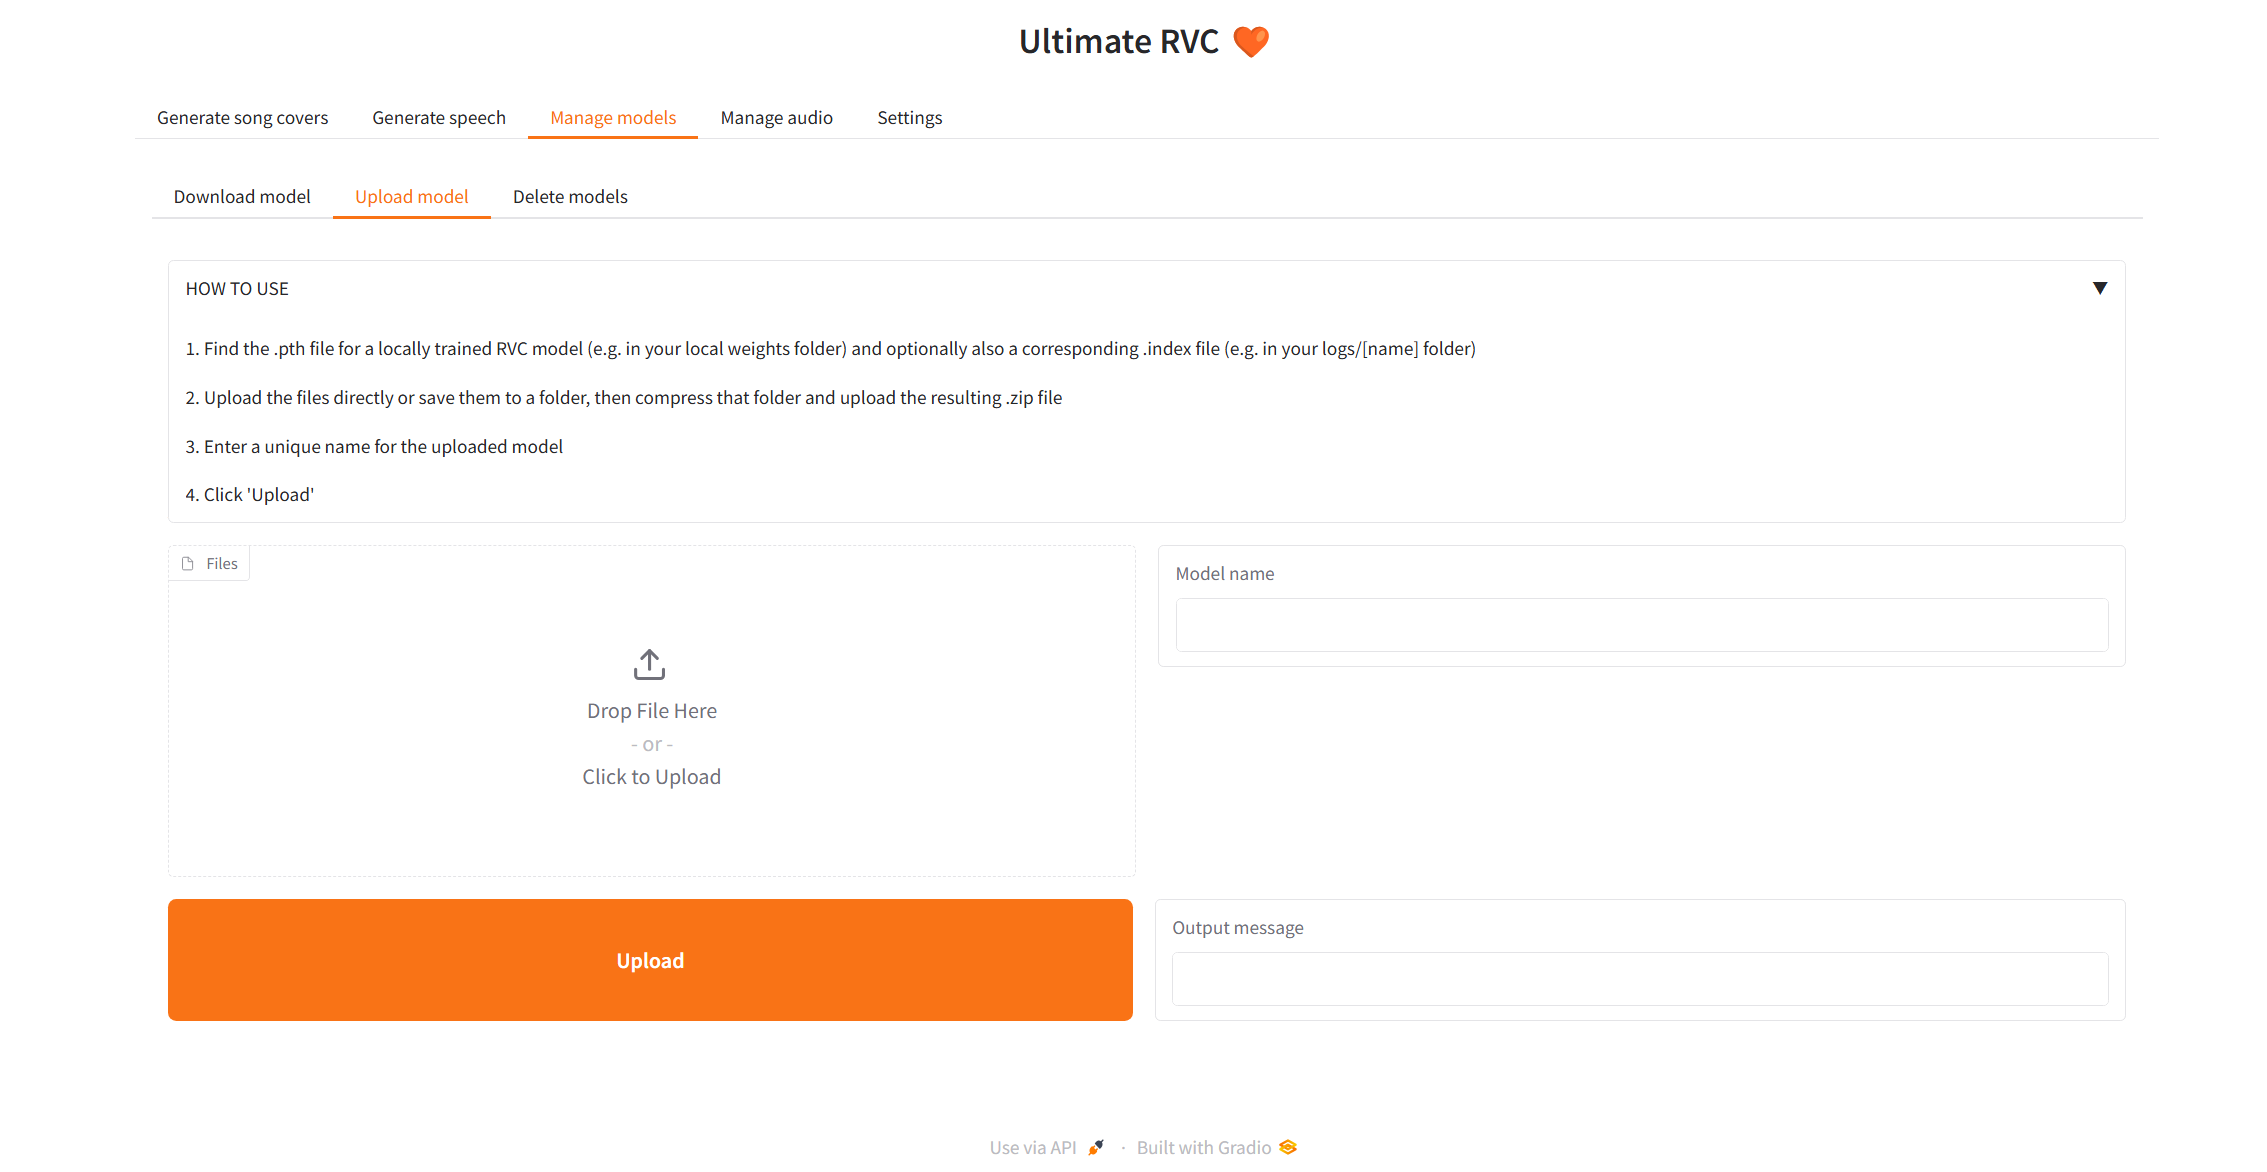
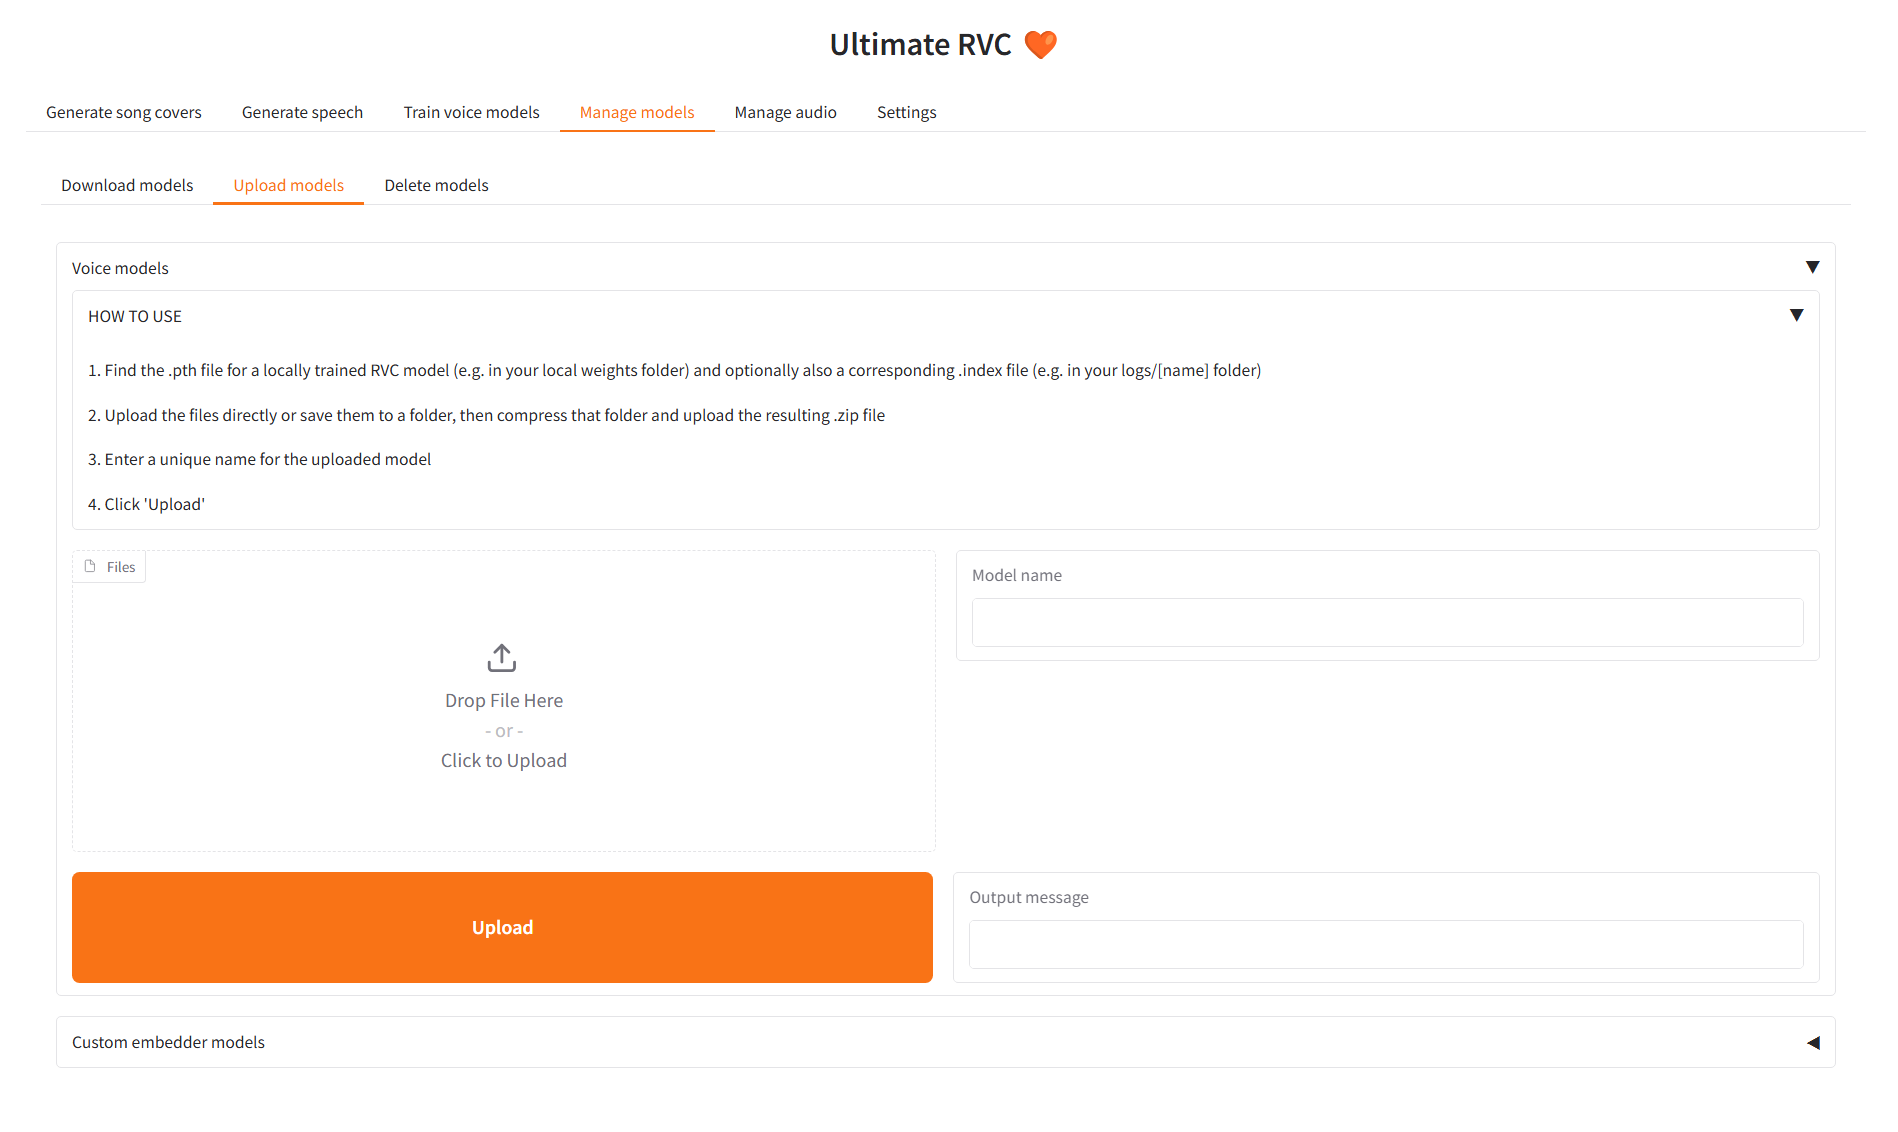
update README

diff --git a/README.md b/README.md
@@ -13,13 +13,12 @@ Ultimate RVC is under constant development and testing, but you can try it out r
 ## New Features
 
 * Easy and automated setup using launcher scripts for both windows and Debian-based linux systems
-* Significants improvements to both voice conversion quality and speed, inspired by latest developments from projects such as Applio. New features include support for additional pitch extraction methods such as FCPE, many different embedder models (including custom ones!) and pre/post-processing options such as autotuning and noise reduction.
-* Brand new TTS functionality, which allows you to generate speech from text using any RVC-based voice model. With this feature, you can do things such as generate audio books using your favourite character's voice.
+* Significants improvements to voice conversion quality and speed. New features include support for additional pitch extraction methods such as FCPE, different embedder models and pre/post-processing options such as autotuning and noise reduction.
+* TTS functionality, which allows you to generate speech from text using any RVC-based voice model. With this feature, you can do things such as generate audio books using your favourite character's voice.
+* A voice model training suite, which allows you to train your own voice models using a wide range of options, such as different datasets, embedder models, and training configurations.
 * Caching system which saves intermediate audio files as needed, thereby reducing inference time as much as possible. For example, if song A has already been converted using model B and now you want to convert song A using model C, then vocal extraction can be skipped and inference time reduced drastically
 * Ability to listen to intermediate audio files in the UI. This is useful for getting an idea of what is happening in each step of a given generation pipeline.
 * "multi-step" generation tabs: Here you can try out each step of a given generation pipeline in isolation. For example, if you already have extracted vocals available and only want to convert these using your voice model, then you can do that in a dedicated "multi-step" tab for song cover generation. Besides, these "multi-step" generation tabs are also useful for experimenting with settings for each step in a given generation pipeline.
-* A new "manage models" tab, which collects and revamps all existing functionality for managing voice models, as well as adds some new features, such as the ability to delete existing models
-* A new "manage audio" tab, which allows you to interact with all audio generated by the app. Currently, this tab supports deleting audio files.
 * Lots of visual and performance improvements resulting from updating from Gradio 3 to Gradio 5 and from python 3.9 to python 3.12
 * A redistributable package on PyPI, which allows you to easily access the Ultimate RVC project from any python 3.12 environment.
 
@@ -77,7 +76,7 @@ Once the output message `Running on local URL:  http://127.0.0.1:7860` appears, 
 
 ![ ](images/webui_dl_model.png?raw=true)
 
-Navigate to the `Download model` subtab under the `Manage models` tab, and paste the download link to an RVC model and give it a unique name.
+Navigate to the `Download models` subtab under the `Manage models` tab, and paste the download link to an RVC model and give it a unique name.
 You may search the [AI Hub Discord](https://discord.gg/aihub) where already trained voice models are available for download.
 The downloaded zip file should contain the .pth model file and optionally also a .index file.
 
@@ -88,12 +87,8 @@ Once the two input fields are filled in, simply click `Download`. Once the outpu
 ![ ](images/webui_upload_model.png?raw=true)
 
 For people who have trained RVC models locally and would like to use them for voice conversion.
-Navigate to the `Upload model` subtab under the `Manage models` tab, and follow the instructions there.
+Navigate to the `Upload models` subtab under the `Manage models` tab, and follow the instructions there.
 Once the output message says `Model with name [NAME] successfully uploaded!`, you should be able to use the uploaded model in eiter the `Generate song covers` or `Generate speech` tab.
-
-#### Delete RVC models
-
-TBA
 
 ### Generate song covers
 
@@ -108,14 +103,6 @@ TBA
 * Other advanced options for vocal conversion, audio mixing and etc. can be viewed by clicking the appropriate accordion in UI.
 
 Once all options are filled in, click `Generate` and the AI generated song cover should appear in less than a few minutes, depending on your GPU.
-
-#### Multi-step generation
-
-TBA
-
-### Generate speech
-
-TBA
 
 ## Update to latest version
 
